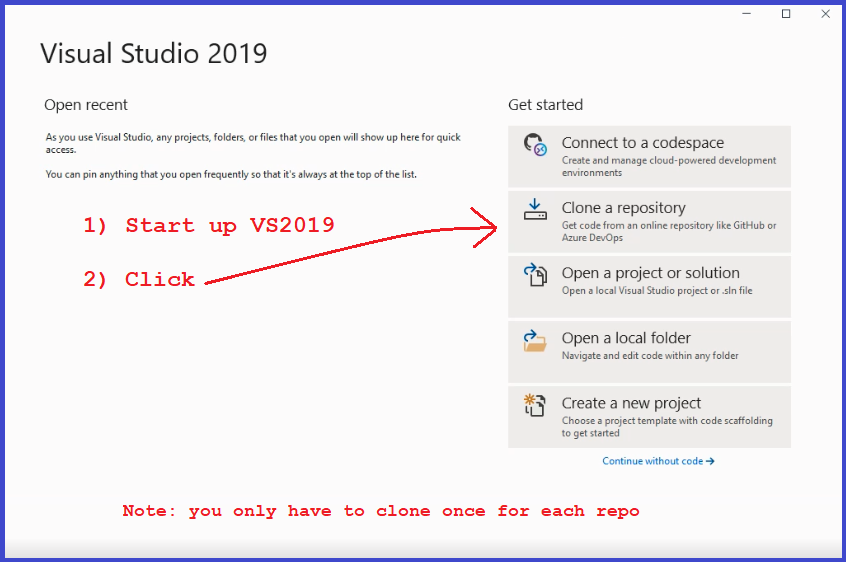
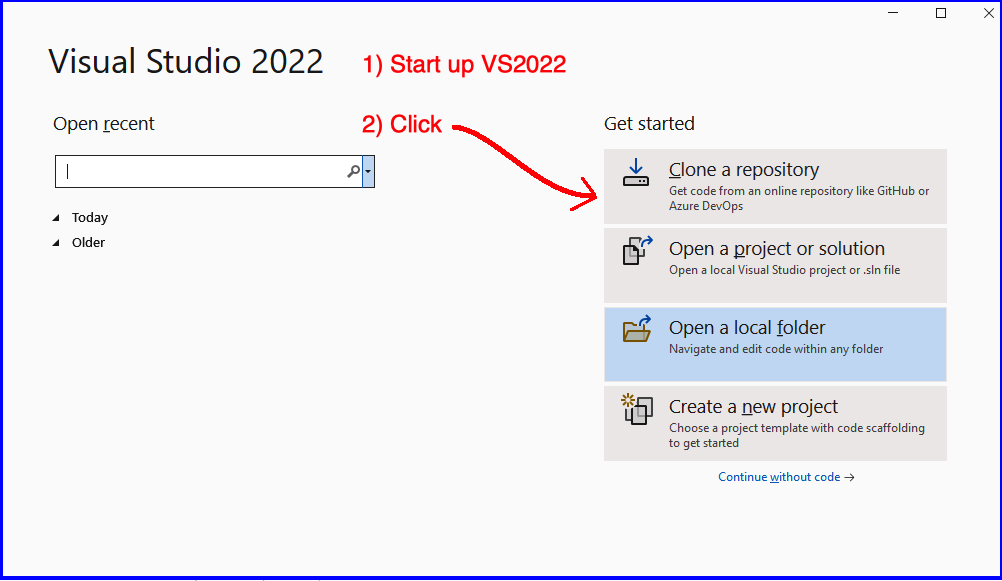
update clone instructions

diff --git a/VisualStudio/CloneGitHubRepo.html b/VisualStudio/CloneGitHubRepo.html
@@ -7,14 +7,14 @@
 </head>
 
 <body>
-<h1>Using VS2019 to clone your CSSE373 Repo</h1>
+<h1>Using VS2022 to clone your CSSE373 Repo</h1>
 <ul>
-  <li>Now it is time to use VS2019 to clone your CSSE373 repo</li>
+  <li>Now it is time to use VS2022 to clone your CSSE373 repo</li>
   <li>The 7 screen shots below walk you through the repo cloning process</li>
 </ul>
 <hr>
-<h3> Start up VS2019 and get started</h3>
-<p><img src="CloneRepoImages/1-ClickCloneRepo.png" alt="" width="846" height="562" title="Start up VS2019 and get started"/></p>
+<h3> Start up VS2022 and get started</h3>
+<p><img src="CloneRepoImages/1-ClickCloneRepo.png" alt=""  title="Start up VS2022 and get started"/></p>
 
 <h3>Click to browse your GitHub repos</h3>
 <p><img src="CloneRepoImages/2-ClickBrowseGitHub.png" width="584" height="425" alt="Click to browse your GitHub repos"/></p>
@@ -23,11 +23,11 @@
 <p><img src="CloneRepoImages/3-SignIn.png" width="607" height="486" alt="Start to sign into your GitHub account"/></p>
 <h3>Sign in to GitHub</h3>
 <p><img src="CloneRepoImages/4-SignIntoGitHub.png" width="314" height="531" alt="Sign in to GitHub"/></p>
-<h3>Authorize VS2019 to access GitHub account</h3>
+<h3>Authorize VS2022 to access GitHub account</h3>
 <p><img src="CloneRepoImages/5-AuthVS2019ToGitHub.png" width="446" height="668" alt=""/></p>
 <h3>Find your CSSE373 repo</h3>
 <p><img src="CloneRepoImages/6-SelectYourRepo.png" width="617" height="489" alt=""/></p>
-<h3> VS2019 shows your cloned  CSSE373 repo</h3>
+<h3> VS2022 shows your cloned  CSSE373 repo</h3>
 <p><img src="CloneRepoImages/7-RepoInVS2019.png" width="291" height="507" alt=""/></p>
 </body>
 </html>
